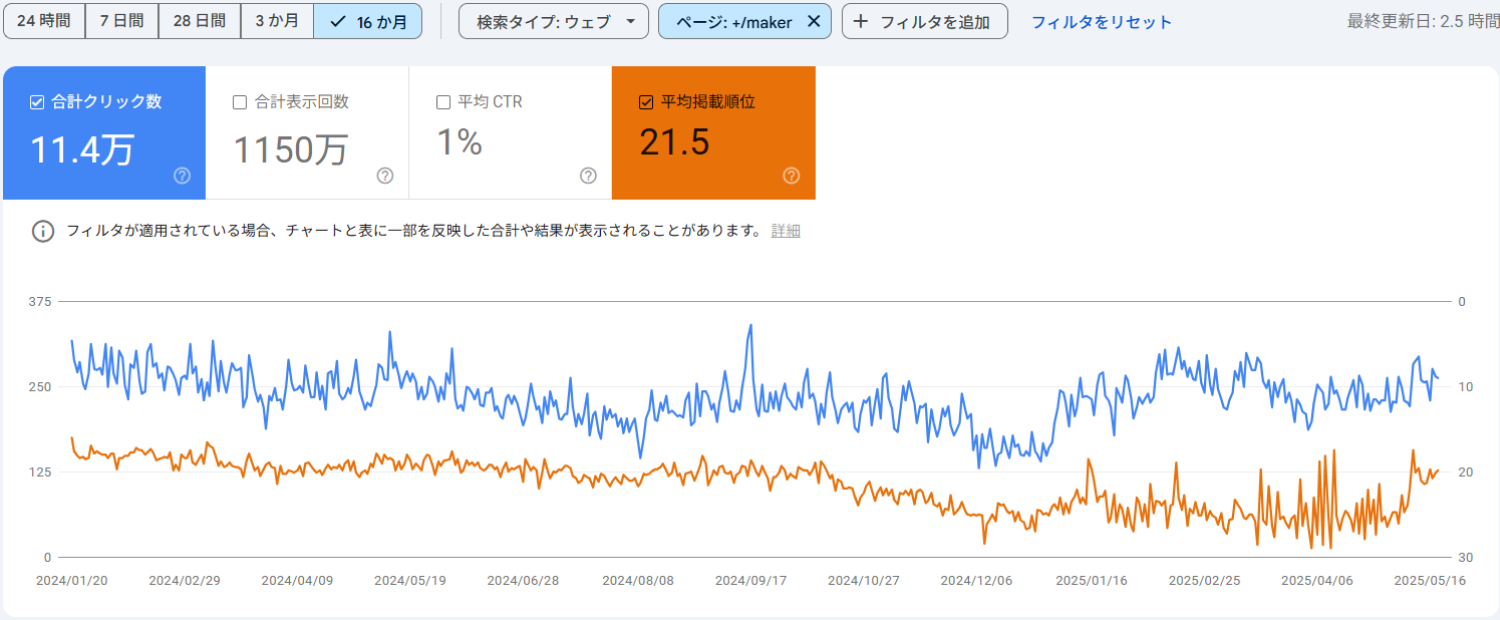
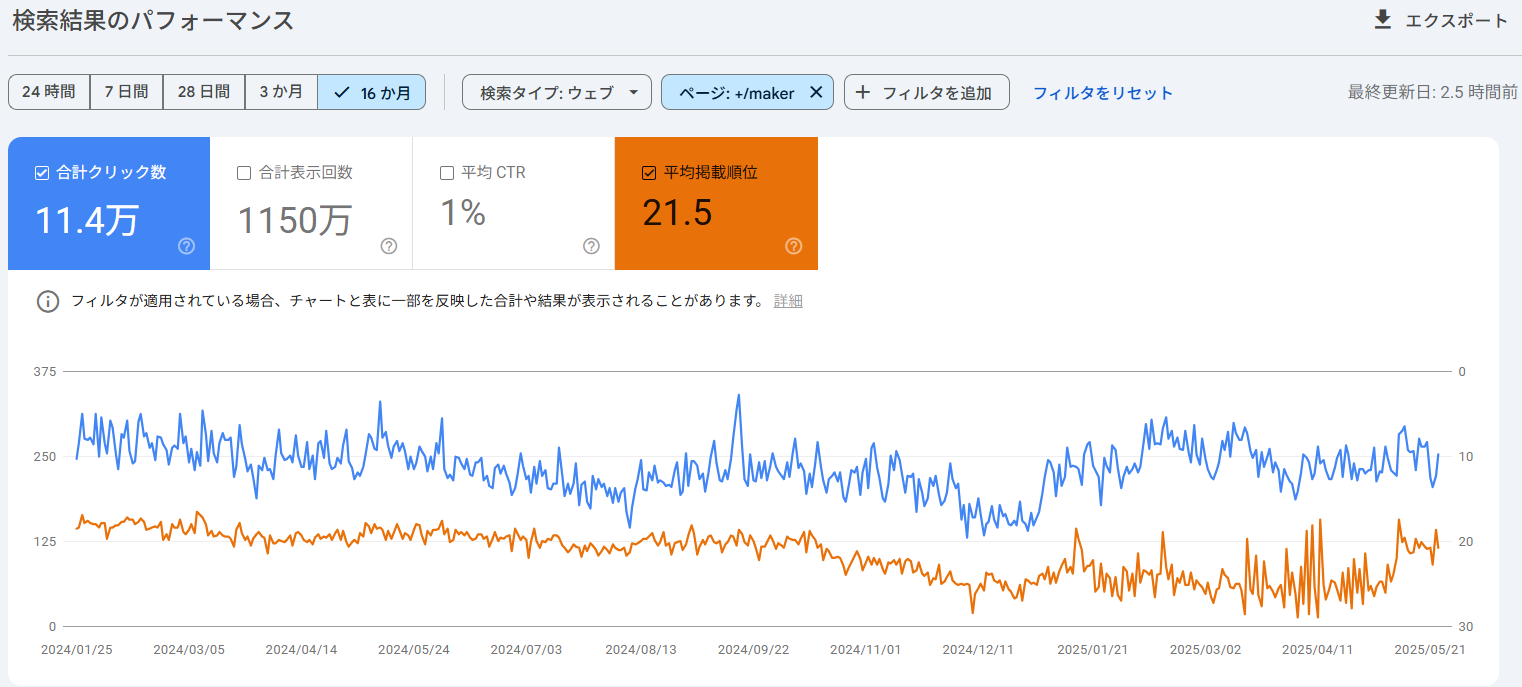
カレントプロフィール更新

diff --git a/public/css/link.css b/public/css/link.css
@@ -101,7 +101,7 @@
   color: #555;
 }
 
-.notion_link {
+.current_result_link {
     padding: 5px;
     border: 2px solid #0084ff;
     border-radius: 5px;

diff --git a/public/css/chart.css b/public/css/chart.css
@@ -29,3 +29,7 @@
 h3.chart-center {
   text-align: center;
 }
+
+.chart-red {
+  background-color: #ffe5e5; /* 薄い赤 */
+}

diff --git a/resources/views/main/index_current.blade.php b/resources/views/main/index_current.blade.php
@@ -25,10 +25,11 @@
   <h3>主な担当プロダクト</h3>
   <ul>
     <li><a href="{{ route('outbound.redirect', ['key' => 'qshaoh']) }}" target="_blank" rel="nofollow">旧車王（中古車査定申込サイト）</a><br></li>
-    <li><a href="{{ route('outbound.redirect', ['key' => 'campgarage']) }}" target="_blank" rel="nofollow">中古キャンプカー販売サイト</a><br></li>
-    <li><a href="{{ route('outbound.redirect', ['key' => 'euroauto']) }}" target="_blank" rel="nofollow">部品販売ECサイト</a><br></li>
+    <li><a href="{{ route('outbound.redirect', ['key' => 'qshaoh_historia']) }}" target="_blank" rel="nofollow">旧車王ヒストリア（旧車専門メディア）</a><br></li>
+    <li><a href="{{ route('outbound.redirect', ['key' => 'campgarage']) }}" target="_blank" rel="nofollow">ガレージカレントCamp（中古キャンプカー販売サイト）</a><br></li>
     <li>その他8プロダクトほどのサーバー含めた運用</li>
   </ul>
+        <img src="{{ asset('images/currentmotor/main_product.png') }}" alt="Search Consoleデータ" class="prof_image_gsc">
 
   <h3>実績</h3>
 
@@ -36,16 +37,14 @@
     <li>
       <strong>PM／ディレクション業務</strong><br>
       <ul>
-        <li>見込み数値の算出</li>
+        <li>見込み数値の算出、PDCA基盤構築</li>
         <li>仕様策定</li>
         <li>システム / デザイン要件定義</li>
-          <div class="notion_link">
+          <div class="current_result_link">
             <strong>
                 <a href="https://www.notion.so/1fb20fbb3a0c80558c68f60ca29588a2" target="_blank" rel="nofollow"> 要件定義ドキュメント </a>
             </strong>
           </div>
-
-
       </ul>
     </li>
 
@@ -53,19 +52,27 @@
       <strong>Webマーケティング業務</strong><br>
       GA4・Search Console・ahrefsなどを使用したデータ分析と広告運用。
       <ul>
-        <li>SEO設計・TD調査・検索順位改善施策</li>
         <li>記事型SEOコンテンツのディレクションによる流入増</li>
         <li>DB型SEOの対策、およびシステム設計</li>
-        <a href="{{ route('mp_result') }}" target="_blank">カレント自動車_SEO実績_Search Consoleデータ</a>
+          <div class="current_result_link">
+            <strong>
+              <a href="{{ route('mp_result') }}" target="_blank">SEO実績データ</a>
+            </strong>
+          </div>
         <ul>
           <li>ポイント</li>
           <ul>
-            <li>コアアップデートで下落していた順位を、下落前まで回復。</li>
-            <li>新規実装の詳細ページでYoYでCV数600%改善</li>
+            <li><a href="{{ route('outbound.redirect', ['key' => 'qshaoh']) }}" target="_blank" rel="nofollow">旧車王</a>
+            ：コアアップデートで下落していた順位を、下落前まで回復させ、詳細ページの新規実装でYoYで<span class="chart-red">CV数500%改善</span>。
+            </li>
+            <li><a href="{{ route('outbound.redirect', ['key' => 'qshaoh_historia']) }}" target="_blank" rel="nofollow">旧車王ヒストリア</a>
+            ：過去バズった記事をテンプレート化、トピッククラスター型で記事を増やし、<span class="chart-red">200%ほど認知拡大</span>に貢献。
+            </li>
+            <li><a href="{{ route('outbound.redirect', ['key' => 'campgarage_media']) }}" target="_blank" rel="nofollow">ガレキャン通信</a>
+            ：Webライターさんと協議しならがKWを選定し、書いた記事の<span class="chart-red">ザックリ70%程度は上位10位圏内</span>をマーク。
+            </li>
           </ul>
         </ul>
-                  
-        <h1>旧車王の数字、ガレキャンのメディア数字、ヒストリアの25年ルールの数字</h1>
         <!-- <li>リスティング広告（簡易運用）を通じたCTR改善</li>
         <li>動的CTA実装によるCTR増加</li> -->
       </ul>
@@ -81,25 +88,15 @@
     </li>
   </ul>
 
-  <li>
-      <strong>工夫した業務</strong><br>
-      メンバー育成・チーム最適化・開発支援体制の構築。
-      <ul>
-        <li>テクニカルSEO、Search Engineを意識したクエリの実装</li>
-        <li>持続的な開発が出来るよう自身がよりエンジニアに近い領域の業務を担当すること</li>
-        <li>社内全体でクリエイターの工数が管理できて効率良く開発業務を進めること</li>
-      </ul>
-    </li>
-  </ul>
 
   <h3>ポイント</h3>
     <div class="point_container">
       <div class="point_item">プロダクトマネージャー</div>
       <div class="point_item">Webディレクター</div>
       <div class="point_item">Webデータ分析</div>
-      <div class="point_item">インフラ保守</div>
       <div class="point_item">DB型SEO対策</div>
       <div class="point_item">コンテンツSEO</div>
+      <div class="point_item">メンバーマネジメント</div>
     </div>
   <!-- <p>
     退職者が相次ぎ、1/4以下に縮小したチーム環境において、運用から改善まで多岐にわたる業務を支援。

diff --git a/resources/views/main/result_current_all.blade.php b/resources/views/main/result_current_all.blade.php
@@ -4,54 +4,56 @@
 @include('components.noindex')
 @include('components.header')
 
+<link rel="stylesheet" href="{{ asset('/css/chart.css') }}">
+
 <title>
 カレント自動車株式会社 @include('components.year', ['target' => 'current'])
 @include('components.sitename')
 </title>
 </head>
 <body>
-  <h1>カレント自動車株式会社<br>
-    <span class="start_end">@include('components.year', ['target' => 'current'])</span>
-  </h1>
+    <h1>カレント自動車株式会社<br>
+      <span class="start_end">@include('components.year', ['target' => 'current'])</span>
+    </h1>
     <h2>テクニカルSEOでの対策実績</h2>
-      <p style="text-align: center;">
-        2024年3月20日～5月20日<br>
-        2025年3月20日～5月20日<br>
-      </p>
-      <h3 class="chart-center">旧車王：Search Console YoY比較</h3>
+    <p style="text-align: center;">
+      2024年3月20日～5月20日<br>
+      2025年3月20日～5月20日<br>
+    </p>
+    <h3 class="chart-center">Search Console YoY比較</h3>
 
 <div class="reslut_content">
     <div class="box-chart-wrapper">
-        <p>コアアップデートで順位が下落する中クエリを変更し、表示回数を増加。ページ品質制御を実装し、2025年5月時点での順位は<span class="chart-red">下落前と同水準で回復傾向</span>へ。</p>
+        @include('components.chart.gsc_maker_chart')
+        <p>コアアップデートで順位が下落する中クエリを変更し、表示回数を増加。2025年5月時点での順位は下落前と同水準で回復傾向へ</p>
         <img src="{{ asset('images/currentmotor/GSC_maker_include.png') }}" alt="Search Consoleデータ" class="prof_image_gsc">
     </div>
 
     <div class="box-chart-wrapper">
-      <p>新規に詳細ページを実装したことで動的ページが増加し、<span class="chart-red">YoYでCTRが180%ほど改善</span>（ページ品質制御機能もセット）。</p>
       @include('components.chart.gsc_result_chart')
+      <p>新規に詳細ページを実装したことで、YoYでCTRが180%ほど改善</p>
+          <img src="{{ asset('images/currentmotor/GSC_result_include.png') }}" alt="Search Consoleデータ" class="prof_image_gsc">
     </div>
     <div class="box-chart-wrapper">
-      <p>コアアップデートで順位が下落する中クエリや内部リンクを最適化、ページ品質制御を実装し、2025年5月時点での順位は<span class="chart-red">下落前と同水準で回復傾向</span>へ。</p>
+      @include('components.chart.gsc_usersvoice_chart')
+      <p>コアアップデートで順位が下落する中クエリや内部リンクを最適化し、2025年5月時点での順位は下落前と同水準で回復傾向へ</p>
         <img src="{{ asset('images/currentmotor/GSC_usersvoice_include.png') }}" alt="Search Consoleデータ" class="prof_image_gsc">
     </div>
 
-
-  <h3 class="chart-center">旧車王：GA4 YoY比較</h3>
     <div class="box-chart-wrapper">
-        <p>コアアップデートで順位が下落する中クエリを変更。<span class="chart-red">セッションの大幅減少を避ける</span>ことができ、それによってCV数の減少も抑えられた。</p>
         @include('components.chart.ga4_maker_chart')
+        <p>コアアップデートで順位が下落する中クエリを変更し、表示回数を増加。2025年5月時点での順位は下落前と同水準で回復傾向へ</p>
     </div>
 
     <div class="box-chart-wrapper">
-      <p>新規に詳細ページを実装したことで、YoYでセッション数を大幅に改善し、<span class="chart-red">CV数は500%改善</span>。</p>
       @include('components.chart.ga4_result_chart')
+      <p>新規に詳細ページを実装したことで、YoYでCTRが180%ほど改善</p>
     </div>
-
     <div class="box-chart-wrapper">
-      <p>コアアップデートで順位が下落している中、CVが少ないページのため打ち手が遅れたことが原因で良い成績ではなかった。<span class="chart-red">2025年5月時点での順位は下落前と同水準で回復傾向</span>へ。</p>
       @include('components.chart.ga4_usersvoice_chart')
+      <p>コアアップデートで順位が下落する中クエリや内部リンクを最適化し、2025年5月時点での順位は下落前と同水準で回復傾向へ</p>
     </div>
-
+  
   <h3 class="chart-center">旧車王ヒストリア：Search Console 25年ルール記事</h3>
     <div class="box-chart-wrapper">
       <p>過去バズった、旧車25年ルール記事をテンプレート化、トピッククラスター型で車種毎の記事を量産。Google Discoverで定期的に流入増で、<span class="chart-red">200%ほど認知拡大に貢献</span>。</p>
@@ -72,6 +74,7 @@
     </a>
 </div>
 
+  </div>
 @include('components.job_historymenu_v2')
 </body>
 </html>

diff --git a/resources/views/components/chart/ga4_chart_temlpate.blade.php b/resources/views/components/chart/ga4_chart_temlpate.blade.php
@@ -1,0 +1,71 @@
+<script src="https://cdn.jsdelivr.net/npm/chart.js"></script>
+<script>
+function createBarChart(canvasId, label, dataSet) {
+    new Chart(document.getElementById(canvasId).getContext('2d'), {
+        type: 'bar',
+        data: {
+            labels: ['セッション', 'キーイベント', 'セッション キーイベント率'],
+            datasets: [{
+                label: label,
+                data: dataSet,
+                backgroundColor: 'rgba(54, 162, 235, 0.2)',
+                borderColor: 'rgba(54, 162, 235, 1)',
+                borderWidth: 1
+            }]
+        },
+        options: {
+            responsive: false,
+            maintainAspectRatio: false,
+            scales: {
+                y: {
+                    beginAtZero: false,
+                    title: {
+                        display: true,
+                        text: '成長率（％）',
+                        font: {
+                            size: 18
+                        }
+                    },
+                    ticks: {
+                        font: {
+                            size: 14
+                        }
+                    }
+                },
+                x: {
+                    ticks: {
+                        font: {
+                            size: 14
+                        }
+                    }
+                }
+            },
+            plugins: {
+                title: {
+                    display: true,
+                    text: label,
+                    font: {
+                        size: 20
+                    }
+                },
+                legend: {
+                    labels: {
+                        font: {
+                            size: 14
+                        }
+                    }
+                },
+                tooltip: {
+                    bodyFont: {
+                        size: 14
+                    },
+                    callbacks: {
+                        label: function(context) {
+                            return context.parsed.y.toFixed(2) + '%';
+                        }
+                    }
+                }
+            }
+        }
+    });
+}

diff --git a/app/Http/Controllers/OutboundLinkController.php b/app/Http/Controllers/OutboundLinkController.php
@@ -13,9 +13,11 @@ class OutboundLinkController extends Controller
             "rabostar" => "https://rabostar.com/",            
             'currentmotor' => 'https://www.currentmotor.co.jp/',
             'qshaoh' => 'https://www.qsha-oh.com/',
+            'qshaoh_historia' => 'https://www.qsha-oh.com/historia/',
             'garagecurrent' => 'https://www.garagecurrent.com/',
             'directgarage' => 'https://direct.garagecurrent.com/',
             'campgarage' => 'https://camp.garagecurrent.com/',
+            'campgarage_media' => 'https://camp.garagecurrent.com/article/',
             'currenttech' => 'https://www.currenttechcenter.com/',
             'euroauto' => 'https://www.euroauto.jp/',
             'icin' => 'https://www.icin.jp/',

diff --git a/app/Helpers/BreadcrumbHelper.php b/app/Helpers/BreadcrumbHelper.php
@@ -29,6 +29,11 @@ class BreadcrumbHelper
                 ['name' => 'カレント自動車株式会社', 'url' => route('mp_current')],
                 ['name' => 'カレント自動車_SEO実績', 'url' => route('mp_result')],
             ],
+            'mp_result_all' => [
+                ['name' => 'カレント自動車株式会社', 'url' => route('mp_current')],
+                ['name' => 'カレント自動車_SEO実績', 'url' => route('mp_result')],
+                ['name' => 'カレント自動車_SEO実績_ALL', 'url' => route('mp_result_all')],
+            ],
             'mp_about' => [
                 ['name' => 'About', 'url' => route('mp_about')],
             ],

diff --git a/routes/web.php b/routes/web.php
@@ -42,6 +42,10 @@ Route::get('/current/result', function () {
     return view('main.result_current');
 })->name('mp_result');
 
+Route::get('/current/result/all', function () {
+    return view('main.result_current_all');
+})->name('mp_result_all');
+
 Route::get('/about', function () {
     return view('main.about');
 })->name('mp_about');

diff --git a/resources/views/components/header.blade.php b/resources/views/components/header.blade.php
@@ -3,6 +3,7 @@
 <link rel="stylesheet" href="{{ asset('/css/style.css') }}">
 <link rel="stylesheet" href="{{ asset('/css/profile_card.css') }}">
 <link rel="stylesheet" href="{{ asset('/css/link.css') }}">
+<link rel="stylesheet" href="{{ asset('/css/chart.css') }}">
 @include('components.breadcrumb')
 
 <!-- Google Tag Manager -->

diff --git a/resources/views/components/chart/ga4_usersvoice_chart.blade.php b/resources/views/components/chart/ga4_usersvoice_chart.blade.php
@@ -1,0 +1,6 @@
+<canvas id="ga4_usersvoiceChart" width="1000" height="500" class="chart-canvas"></canvas>
+@include('components.chart.ga4_chart_temlpate')
+
+// グラフ描画（新しいデータ）
+createBarChart('ga4_usersvoiceChart', '/usersvoice ディレクトリ', [-49.65, -50.00, -0.70]);
+</script>

diff --git a/resources/views/components/chart/gsc_usersvoice_chart.blade.php b/resources/views/components/chart/gsc_usersvoice_chart.blade.php
@@ -1,0 +1,6 @@
+<canvas id="gsc_usersvoiceChart" width="1000" height="500" class="chart-canvas"></canvas>
+@include('components.chart.gsc_chart_temlpate')
+
+// グラフの作成呼び出し
+createLineChart('gsc_usersvoiceChart', '/usersvoice ディレクトリ', [35.65, -47.01, -13.31, -47.20]);
+</script>

diff --git a/resources/views/components/chart/ga4_result_chart.blade.php b/resources/views/components/chart/ga4_result_chart.blade.php
@@ -1,0 +1,6 @@
+<canvas id="ga4_resultChart" width="1000" height="500" class="chart-canvas"></canvas>
+@include('components.chart.ga4_chart_temlpate')
+
+// グラフ描画（新しいデータ）
+createBarChart('ga4_resultChart', '/result ディレクトリ', [398.27, 533.33, 27.11]);
+</script>
